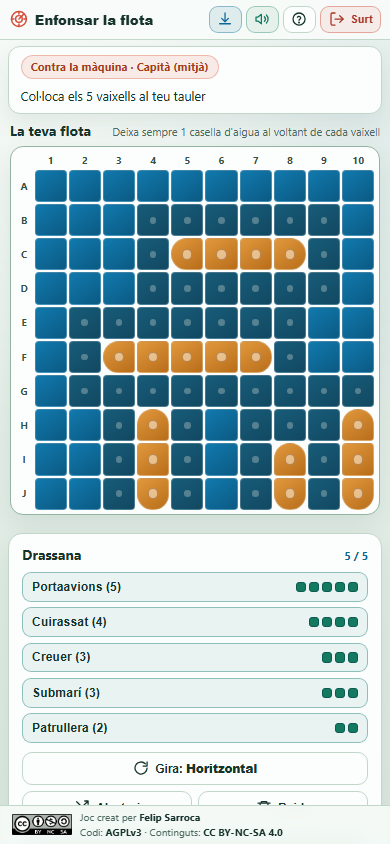
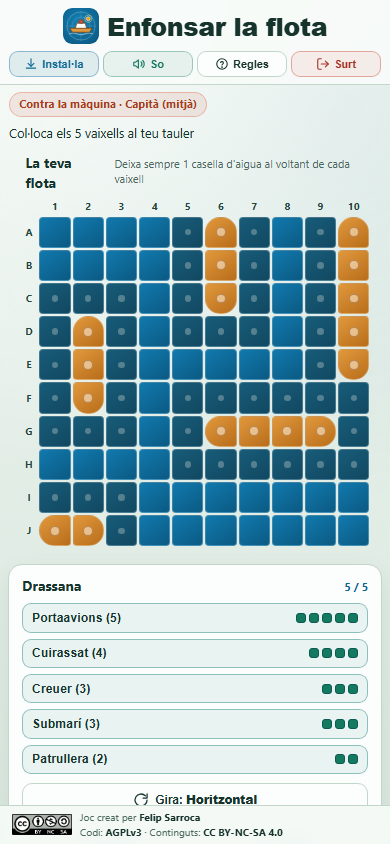
Elimina el marc dels taulers i amplia la capçalera per a escriptori i mòbil (v1.2.5)

diff --git a/Flota/css/estil.css b/Flota/css/estil.css
@@ -80,26 +80,27 @@ body {
 .topbar-inner {
   width: min(1360px, 100%);
   margin: 0 auto;
-  padding: 0.48rem clamp(0.75rem, 2.2vw, 1.5rem);
+  padding: 0.55rem clamp(0.75rem, 2.2vw, 1.5rem);
   display: flex;
   align-items: center;
   justify-content: space-between;
-  gap: 0.75rem;
+  gap: 0.85rem;
 }
 
 .brand {
   display: inline-flex;
   align-items: center;
-  gap: 0.55rem;
+  gap: 0.72rem;
   background: none;
   border: none;
-  padding: 0.25rem 0.45rem;
+  padding: 0.2rem 0.45rem;
   margin-left: -0.45rem;
-  border-radius: 8px;
+  border-radius: 10px;
   color: var(--text);
-  font-size: 1.05rem;
-  font-weight: 800;
-  letter-spacing: -0.01em;
+  font-size: clamp(1.6rem, 2.4vw, 2.08rem);
+  font-weight: 850;
+  letter-spacing: -0.02em;
+  line-height: 1.1;
   cursor: pointer;
 }
 
@@ -112,9 +113,10 @@ body {
 }
 
 .brand-ic {
-  width: 1.42rem;
-  height: 1.42rem;
-  color: var(--coral);
+  width: clamp(2.25rem, 3.2vw, 2.85rem);
+  height: clamp(2.25rem, 3.2vw, 2.85rem);
+  border-radius: 9px;
+  flex: none;
 }
 
 .topbar-actions {
@@ -543,11 +545,7 @@ body {
   align-items: center;
   justify-content: space-between;
   gap: 0.65rem;
-  padding: 0.55rem 0.85rem;
-  border-radius: 12px;
-  border: 1px solid var(--border);
-  background: var(--surface);
-  box-shadow: var(--shadow);
+  padding: 0.1rem 0.1rem 0.2rem;
 }
 
 .phase-info {
@@ -628,7 +626,7 @@ body {
 
 .board-card-head {
   width: 100%;
-  padding: 0 0.15rem;
+  padding: 0 0.1rem 0 1.45rem;
   margin-bottom: 0;
 }
 
@@ -667,11 +665,10 @@ body {
   grid-template-columns: 1.4rem repeat(10, var(--cell-size));
   grid-template-rows: 1.35rem repeat(10, var(--cell-size));
   gap: 2px;
-  padding: 0.42rem;
-  border-radius: 13px;
-  background: var(--surface);
-  border: 1px solid var(--border-strong);
-  box-shadow: var(--shadow);
+  padding: 0;
+  background: transparent;
+  border: none;
+  box-shadow: none;
 }
 
 #board-place .board-grid {
@@ -685,9 +682,9 @@ body {
 .coord-label {
   display: grid;
   place-items: center;
-  font-size: 0.72rem;
-  font-weight: 700;
-  color: #365247;
+  font-size: 0.74rem;
+  font-weight: 750;
+  color: #24473d;
   font-variant-numeric: tabular-nums;
 }
 
@@ -954,11 +951,7 @@ body {
   align-items: center;
   justify-content: space-between;
   gap: 0.6rem;
-  padding: 0.5rem 0.85rem;
-  border-radius: 12px;
-  border: 1px solid var(--border);
-  background: var(--surface);
-  box-shadow: var(--shadow);
+  padding: 0.1rem 0.1rem 0.2rem;
 }
 
 .turn-pill {
@@ -1023,14 +1016,13 @@ body {
   display: inline-flex;
   align-items: center;
   gap: 0.32rem;
-  padding: 0.24rem 0.58rem;
+  padding: 0.22rem 0.54rem;
   border-radius: 999px;
-  border: 1px solid var(--border);
-  background: var(--surface);
+  border: 1px solid rgba(148, 180, 162, 0.55);
+  background: rgba(252, 254, 253, 0.62);
   font-size: 0.75rem;
   font-weight: 650;
   color: var(--text);
-  box-shadow: 0 2px 5px rgba(18, 52, 42, 0.05);
 }
 
 .fleet-chip::before {
@@ -1778,8 +1770,8 @@ body {
 @media (max-width: 820px) {
   :root {
     font-size: 14px;
-    --cell-place: clamp(26px, 8.25vw, 39px);
-    --cell-battle: clamp(26px, 8.25vw, 39px);
+    --cell-place: clamp(25px, min(8vw, 4.9dvh), 37px);
+    --cell-battle: clamp(25px, min(8vw, 4.9dvh), 37px);
   }
 
   body {
@@ -1787,27 +1779,44 @@ body {
   }
 
   .topbar-inner {
-    padding: 0.4rem 0.65rem;
-    gap: 0.4rem;
+    flex-direction: column;
+    align-items: center;
+    padding: 0.5rem 0.65rem 0.48rem;
+    gap: 0.45rem;
   }
 
   .brand {
-    font-size: 0.96rem;
-    gap: 0.42rem;
+    font-size: 1.82rem;
+    gap: 0.6rem;
+    margin-left: 0;
+    padding: 0.08rem 0.35rem;
+  }
+
+  .brand-ic {
+    width: 2.55rem;
+    height: 2.55rem;
+    border-radius: 9px;
   }
 
   .topbar-actions {
+    width: 100%;
+    justify-content: center;
     gap: 0.32rem;
   }
 
   .topbar .btn-icon {
-    padding: 0.34rem 0.52rem;
-    font-size: 0.8rem;
+    flex: 1 1 0;
+    max-width: 112px;
+    justify-content: center;
+    padding: 0.35rem 0.42rem;
+    font-size: 0.78rem;
+    gap: 0.28rem;
     white-space: nowrap;
   }
 
-  body.in-game .btn-install-top .btn-label {
-    display: none;
+  .topbar .btn-icon .ic {
+    width: 1rem;
+    height: 1rem;
   }
 
   .app-shell {
@@ -1860,9 +1869,13 @@ body {
   }
 
   .board-grid {
-    padding: 0.32rem;
+    padding: 0;
     grid-template-columns: 1.2rem repeat(10, var(--cell-size));
     grid-template-rows: 1.15rem repeat(10, var(--cell-size));
+  }
+
+  .board-card-head {
+    padding-left: 1.25rem;
   }
 
   .board-card-head,

diff --git a/Flota/index.html b/Flota/index.html
@@ -13,19 +13,14 @@
   <link rel="manifest" href="manifest.webmanifest">
   <link rel="icon" href="assets/favicon.svg" type="image/svg+xml">
   <link rel="apple-touch-icon" href="assets/apple-touch-icon.png">
-  <link rel="stylesheet" href="css/estil.css?v=1.2.3">
-  <script type="module" src="js/app.js?v=1.2.3"></script>
+  <link rel="stylesheet" href="css/estil.css?v=1.2.5">
+  <script type="module" src="js/app.js?v=1.2.5"></script>
 </head>
 <body>
   <header class="topbar">
     <div class="topbar-inner">
       <button type="button" class="brand" id="btn-brand" aria-label="Enfonsar la flota, torna a l'inici">
-        <svg class="ic brand-ic" viewBox="0 0 24 24" fill="none" stroke="currentColor" stroke-width="1.8" stroke-linecap="round" stroke-linejoin="round" aria-hidden="true">
-          <circle cx="12" cy="12" r="9"/>
-          <circle cx="12" cy="12" r="4"/>
-          <path d="M12 3v3M12 18v3M3 12h3M18 12h3"/>
-          <path d="M12 12l5.2-5.2"/>
-        </svg>
+        <img class="ic brand-ic" src="assets/favicon.svg" alt="" aria-hidden="true">
         <span class="brand-name">Enfonsar la flota</span>
       </button>
 
@@ -49,6 +44,7 @@
             <path d="M11 5L6 9H3v6h3l5 4V5z"/>
             <path d="M22 9l-6 6M16 9l6 6"/>
           </svg>
+          <span class="btn-label">So</span>
         </button>
 
         <button type="button" class="btn-icon" id="btn-rules" title="Regles del joc">
@@ -57,7 +53,7 @@
             <path d="M9.6 9.5a2.5 2.5 0 0 1 4.8.8c0 1.7-2.4 2.1-2.4 3.5"/>
             <circle cx="12" cy="17.2" r="0.6" fill="currentColor"/>
           </svg>
-          <span class="btn-label hide-sm">Regles</span>
+          <span class="btn-label">Regles</span>
         </button>
 
         <button type="button" class="btn-icon btn-exit" id="btn-exit" hidden title="Surt de la partida">

diff --git a/Flota/sw.js b/Flota/sw.js
@@ -1,7 +1,7 @@
 /* SPDX-License-Identifier: AGPL-3.0-or-later */
 /* Service Worker per a ús fora de línia i instal·lació PWA d'Enfonsar la flota */
 
-const CACHE_NAME = 'enfonsar-la-flota-v1.2.3';
+const CACHE_NAME = 'enfonsar-la-flota-v1.2.5';
 const APP_SHELL = [
   './',
   './index.html',
